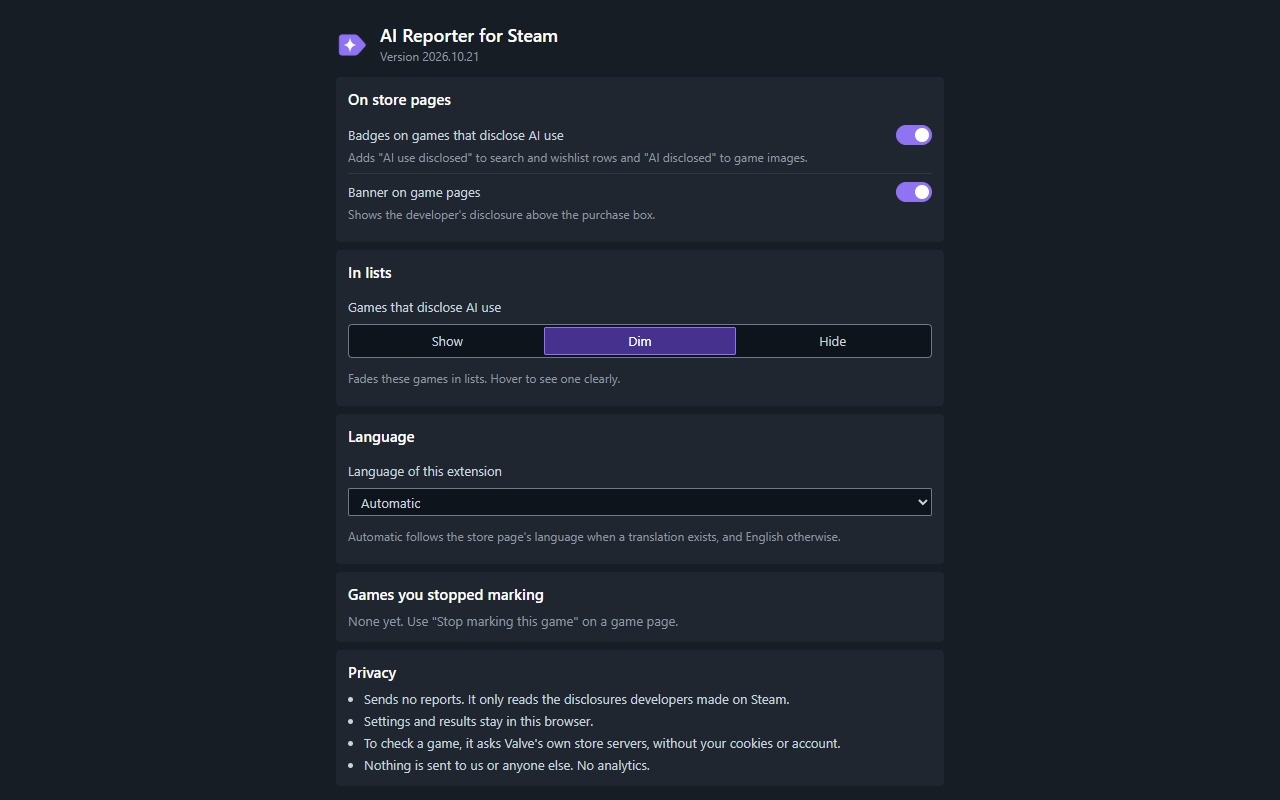
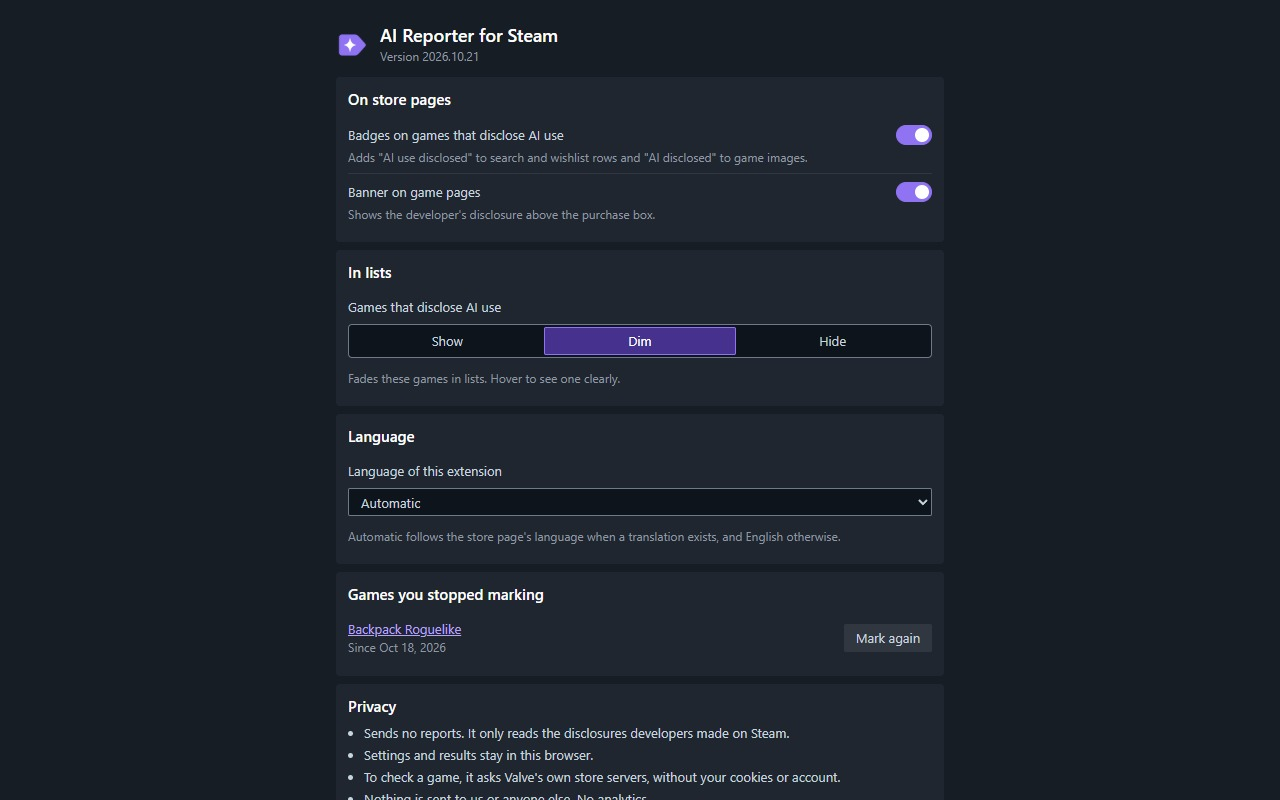
docs(store): show the allow-list in the options and popup screenshots

Changed region(s): [[0.25, 0.75, 0.6562, 1.0], [0.6562, 0.7812, 0.7188, 0.8125]]

diff --git a/README.md b/README.md
@@ -43,9 +43,9 @@ The options page turns badges and the banner on or off, sets how lists treat dis
 
 With the list filter on Dim, disclosing games fade in lists and come back on hover. Hide removes them from lists. Show, the default, leaves lists as they are.
 
-<img src="docs/store/screenshots/popup.jpg" alt="The toolbar popup with the badge and banner switches, the Show, Dim and Hide control, and a link to all settings" width="360">
+<img src="docs/store/screenshots/popup.jpg" alt="The toolbar popup with the badge and banner switches, the Show, Dim and Hide control, one game you stopped marking, and a link to all settings" width="360">
 
-The toolbar popup holds the same switches and the list filter, with a link to the full options page. The userscript opens the same settings in a dialog from the script manager's menu.
+The toolbar popup holds the same switches, the list filter and the games you stopped marking, with a link to the full options page. The userscript opens the same settings in a dialog from the script manager's menu.
 
 ### Known gaps
 
